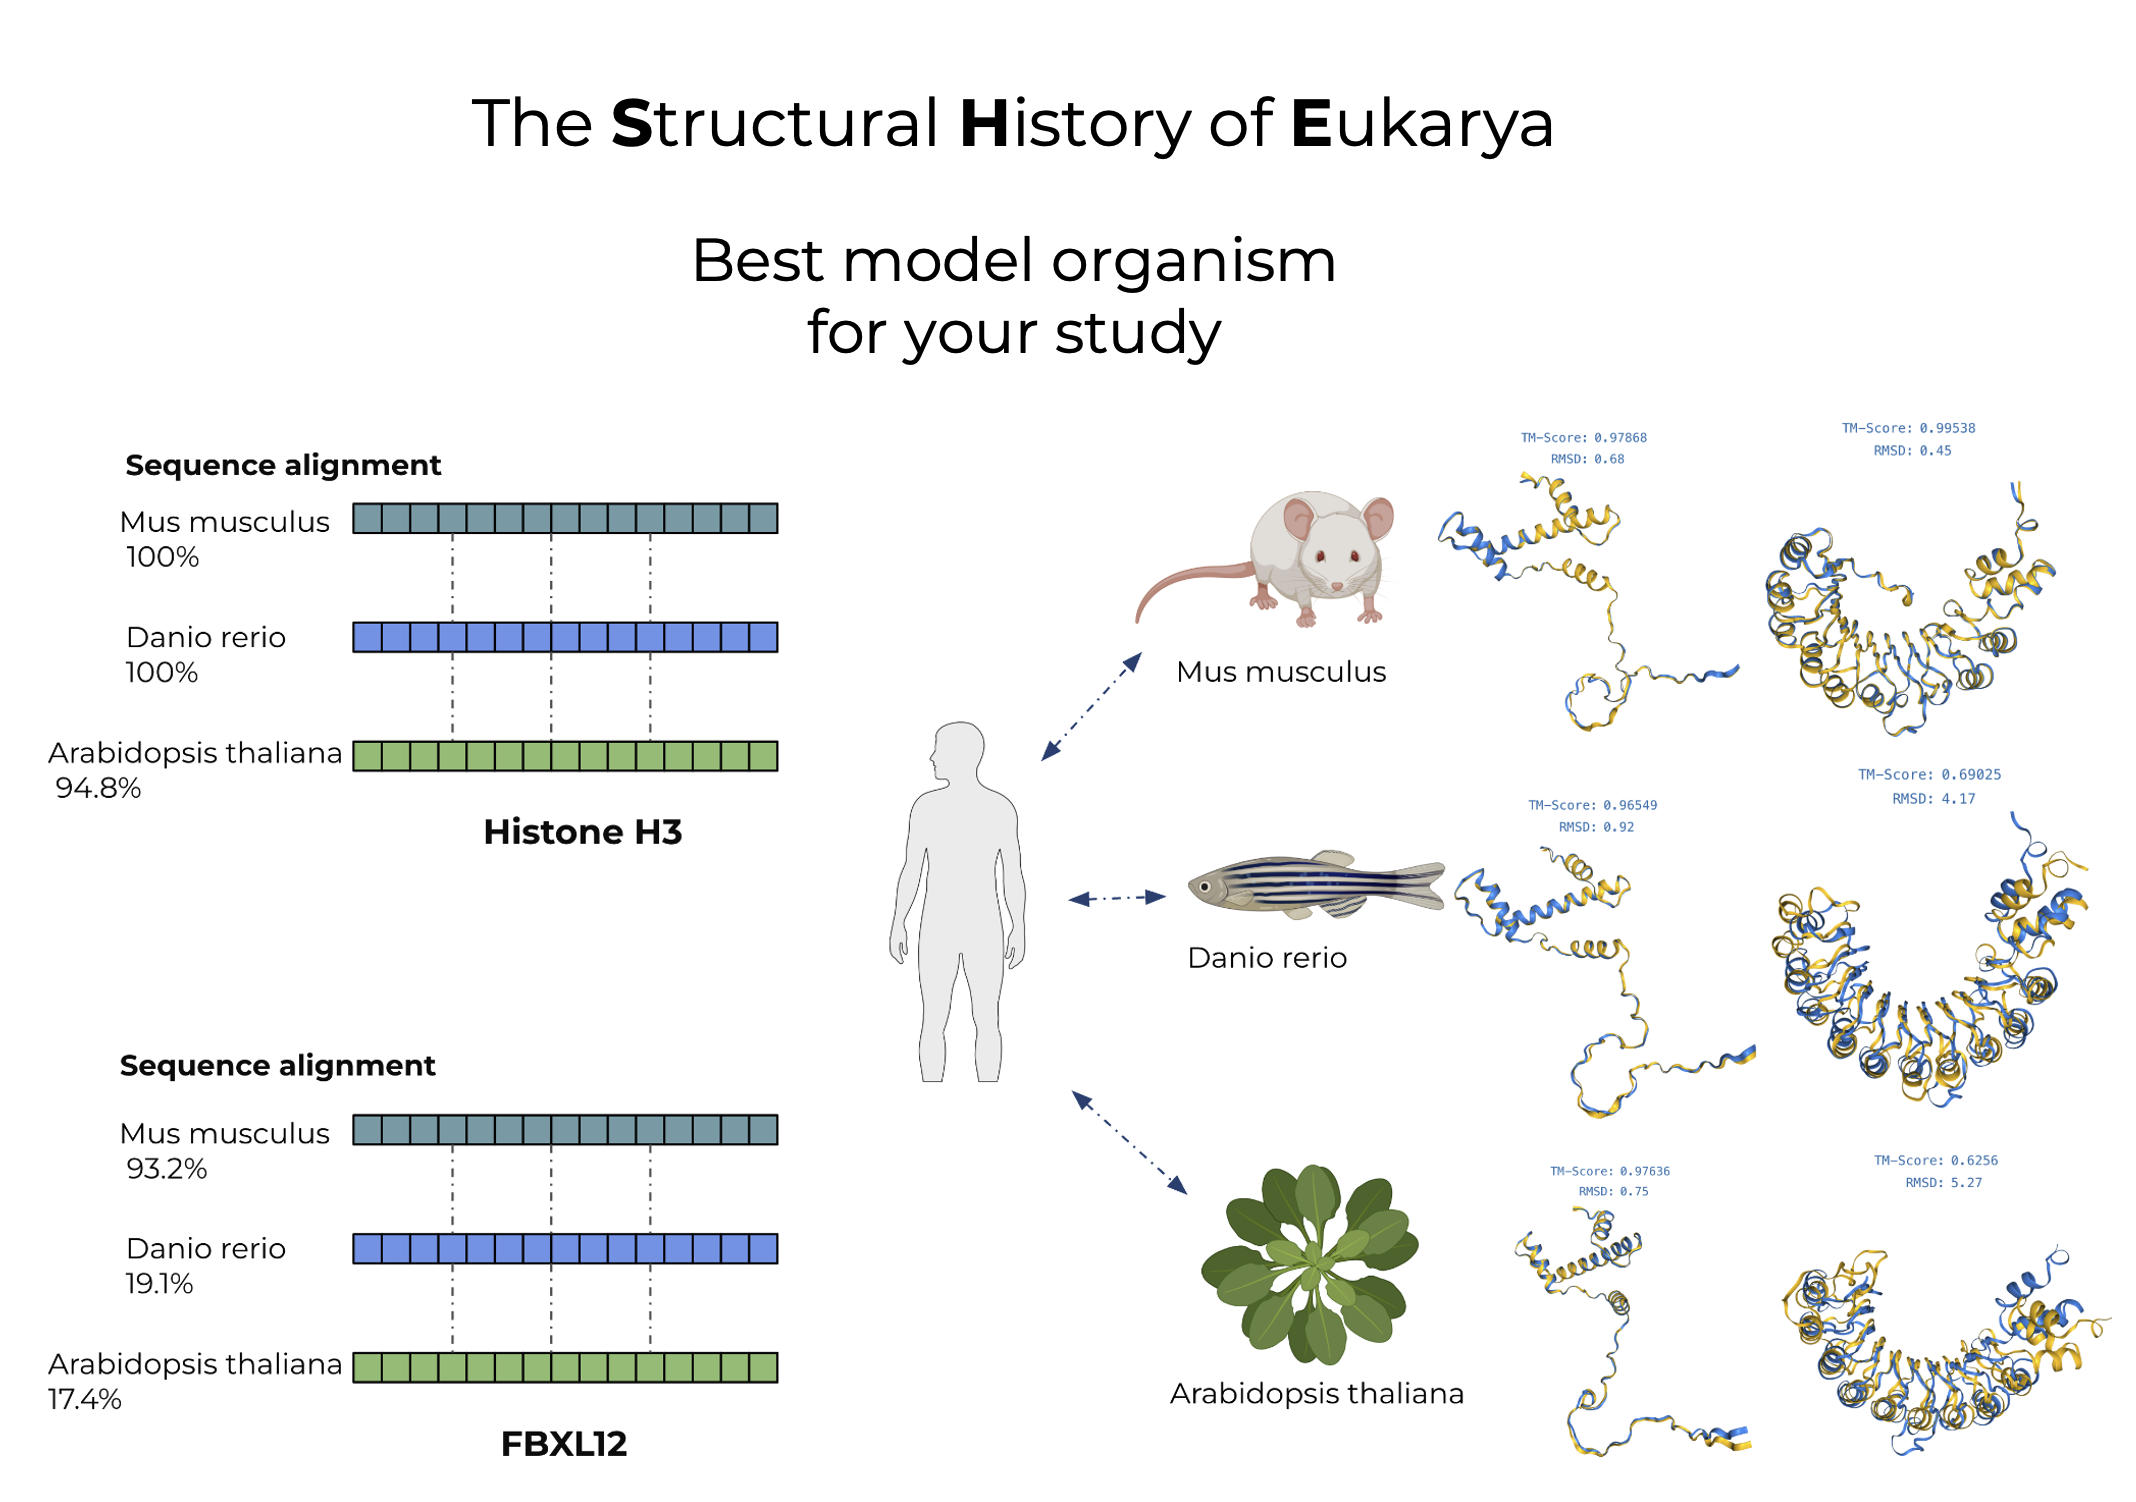
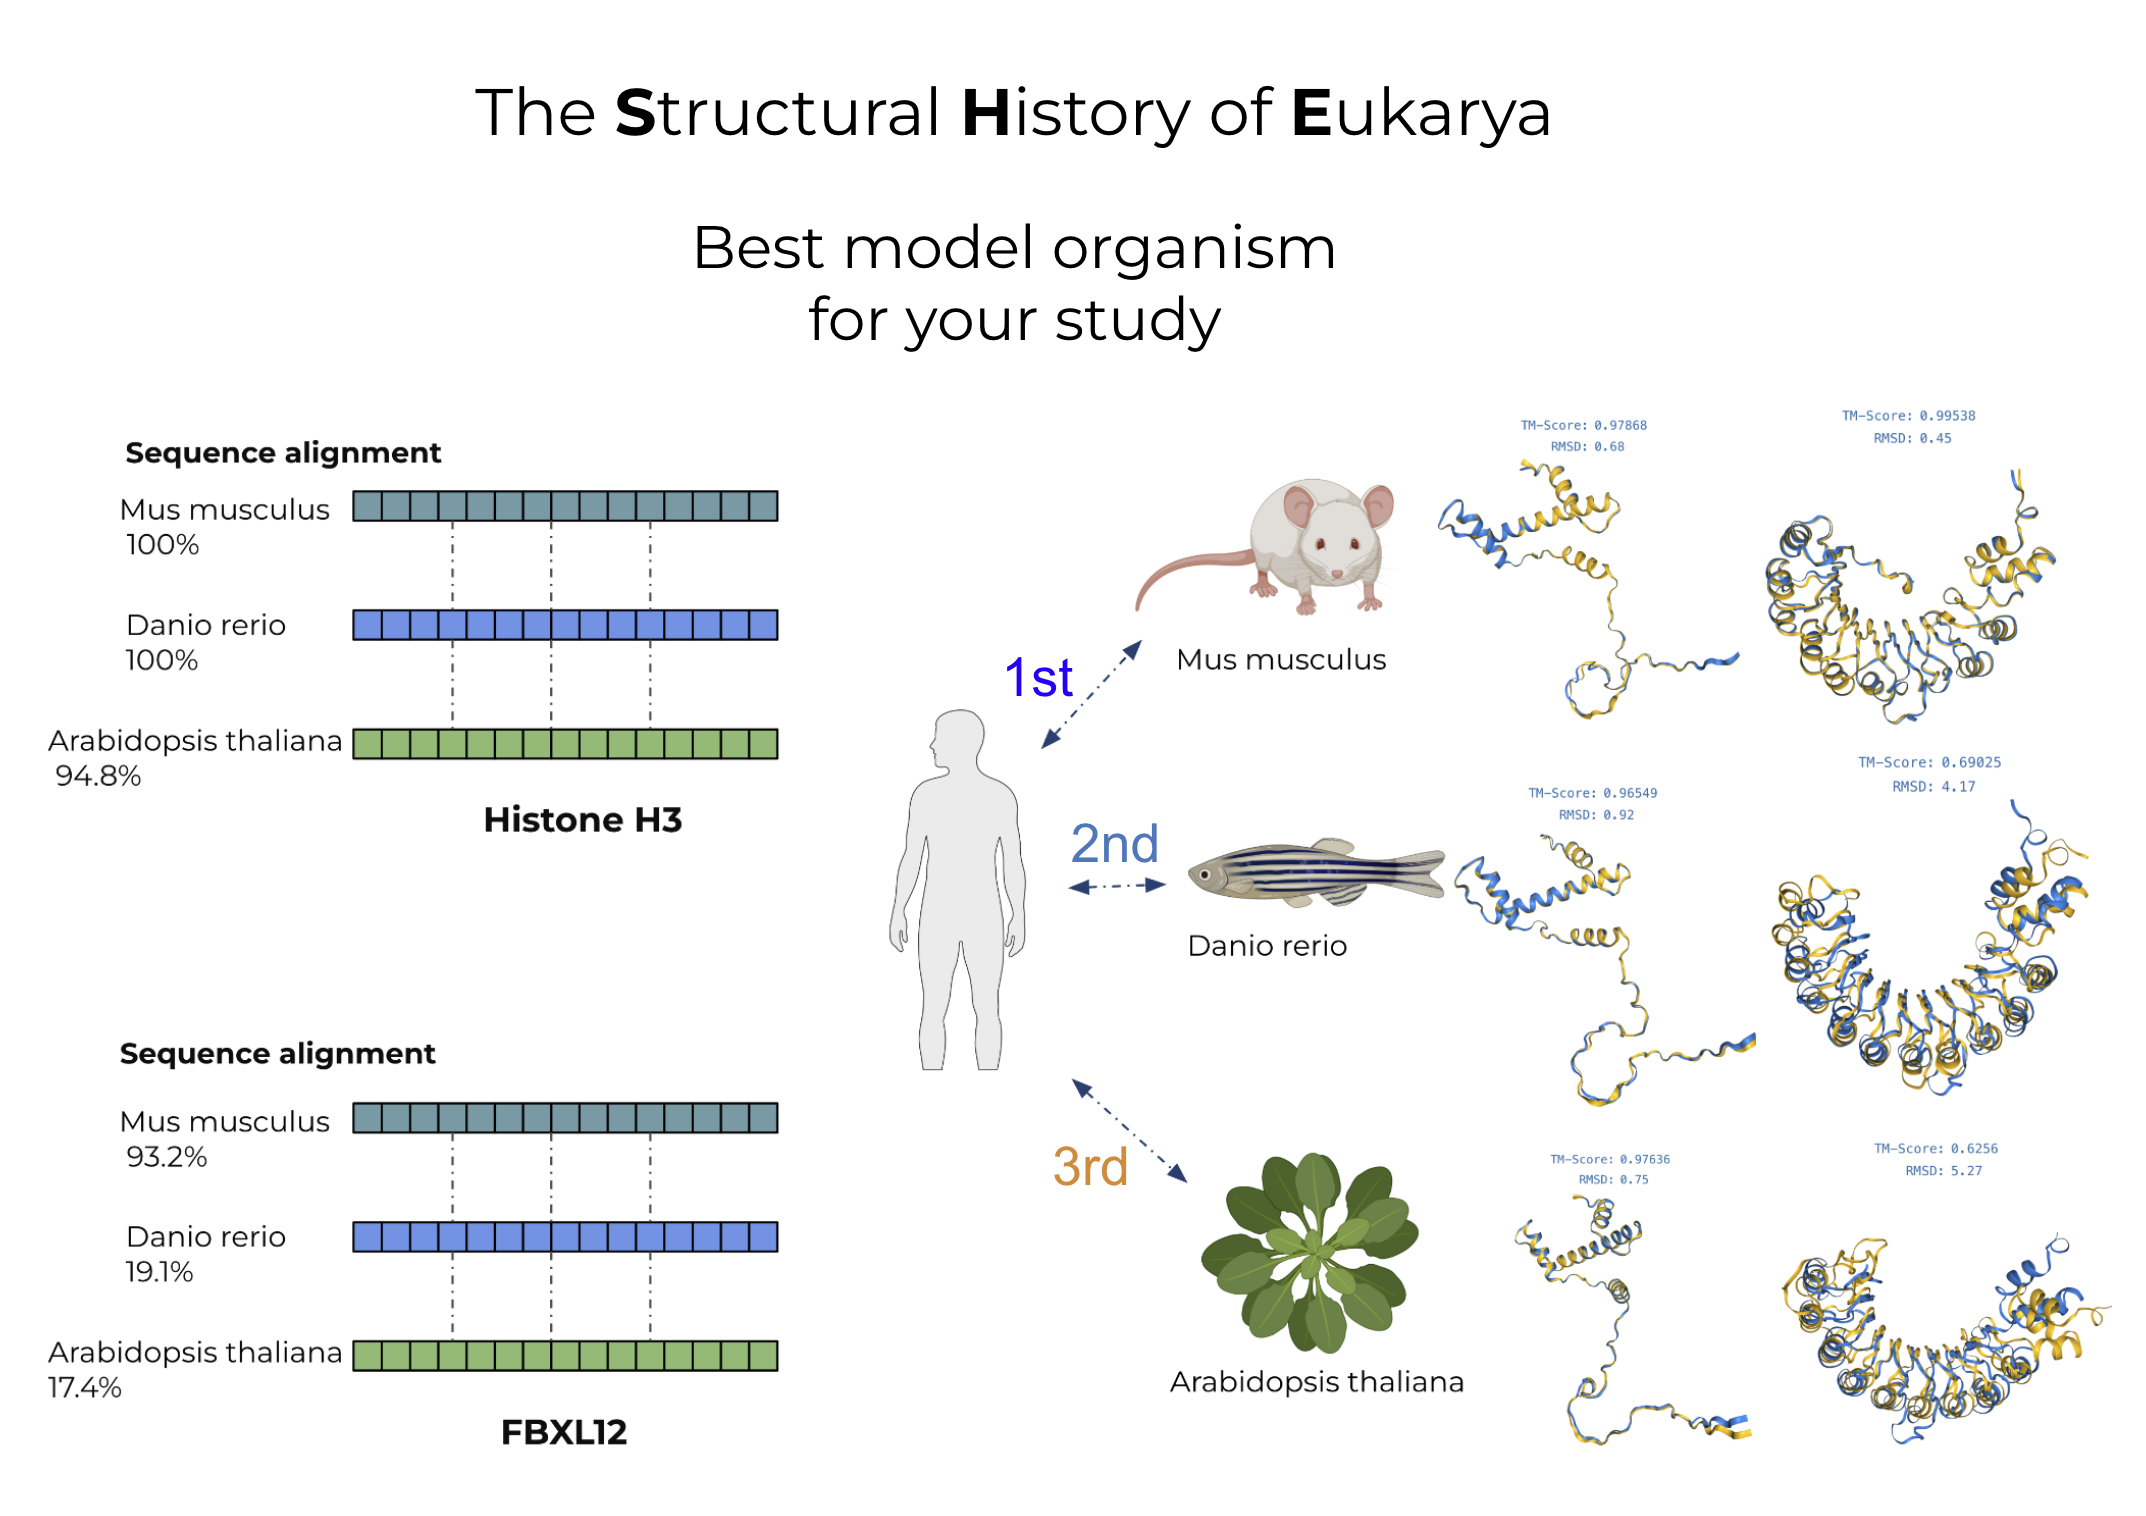
new figs

diff --git a/app/pages/1_Explore_Tree.py b/app/pages/1_Explore_Tree.py
@@ -692,7 +692,7 @@ df = pd.DataFrame({
 
 # Add sidebar ---------------------------------------------------------------------------------------------------------------------------
 # Choose Taxon
-st.sidebar.subheader('Kingdoms')
+st.sidebar.subheader('1. Kingdoms')
 kingdom = st.sidebar.selectbox(
     'Which kingdom? (default: All)',
     df['kingdom'],
@@ -782,7 +782,8 @@ if st.sidebar.toggle('Show species branch rate in kingdom'):
     kingdom_csv
 
 # show evorate tree color ------------------------------------------------------------------------
-if st.sidebar.toggle('See evolutionary rate'):
+st.sidebar.subheader('2. Evolutionary rate')
+if st.sidebar.toggle('See tree with evolutionary rate colors (yellow high, purple low)'):
     st.title('Evolutionary rate:')
     'Selected Kingdom: ', kingdom
     'Selected layout: ', layout
@@ -821,7 +822,7 @@ new_proteomes_path =  'data/core/merged_evo_rate.csv'
 proteomes_df = pd.read_csv(proteomes_path)
 
 # find species ------------------------------------------------------------------------------------------------------
-st.sidebar.subheader('Zoom on Taxonomic Group')
+st.sidebar.subheader('3. Zoom on Taxonomic Group')
 if st.sidebar.checkbox('Find species'):
     st.title('Species subtree:')
     species = ''
@@ -946,7 +947,7 @@ if st.sidebar.checkbox('Find taxon'): #it does not handle two new taxa in the sa
 
 ############### Protein tree extraction -----------------------------------------------------------------------------------------
 st.sidebar.subheader('Protein Evolution')
-if st.sidebar.checkbox('Find protein'):
+if st.sidebar.checkbox('4. Find protein structural homologous'):
     protein = ''
     st.title('Tree of all organisms sharing a protein structure:')
     protein = st.sidebar.text_input(
@@ -1025,7 +1026,7 @@ if st.sidebar.checkbox('Find protein'):
                 else:
                     st.warning("QApplication is creating an empty svg. Restart the app")
 
-if st.sidebar.checkbox('Study the structural evolution set of proteins'):
+if st.sidebar.checkbox('5. Study the structural evolution set of proteins'):
     proteins = ''
     st.title('Tree built from your protein structures:')
     proteins = st.sidebar.text_input(

diff --git a/app/pages/2_Model_organisms.py b/app/pages/2_Model_organisms.py
@@ -250,7 +250,7 @@ if st.sidebar. button('Receive Results'):
 
 ################analysis -------------------------------------------
 #@st.cache_data
-st.sidebar.subheader('Model Organism Search')
+st.sidebar.subheader('6. Model Organism Search')
 if st.sidebar.checkbox('Find best Model organism'):
     st.title('Find the best model organism for your study according to the structural phylogenetic tree!')
     protein_list = st.sidebar.text_input(
